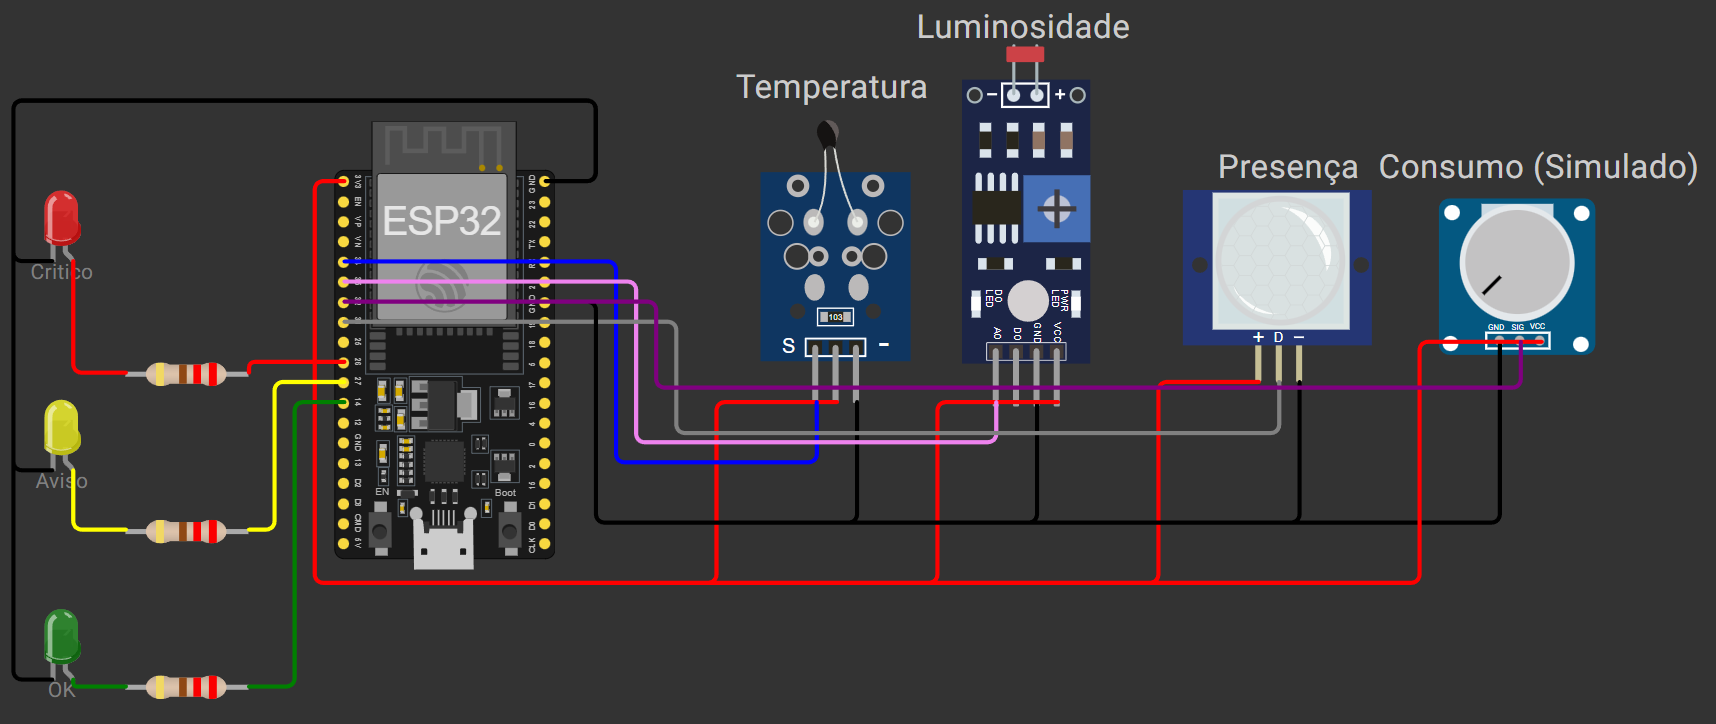
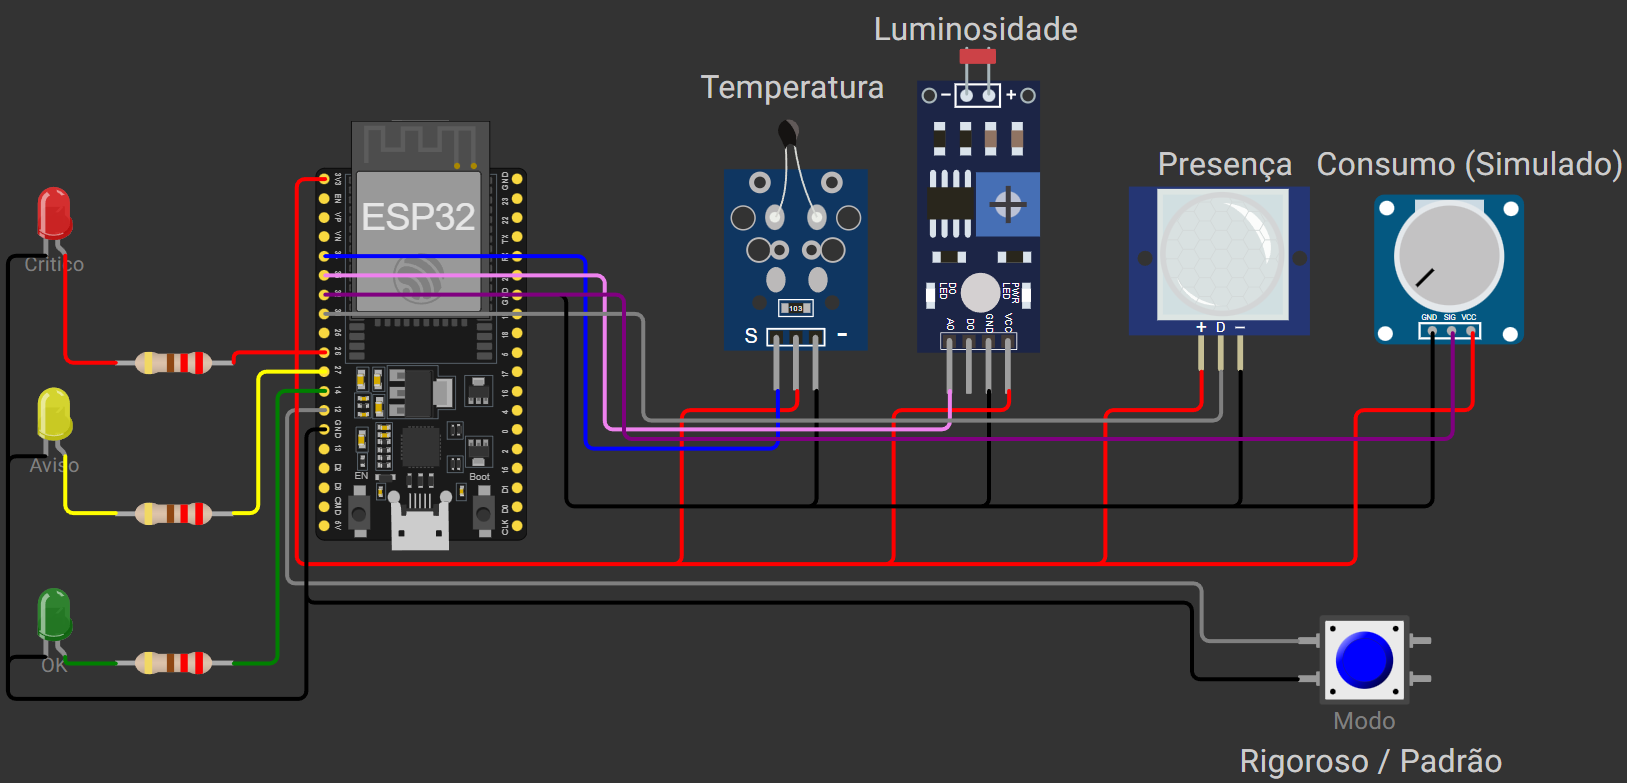
docs: atualiza README e diagrama com melhorias na descrição e layout

Changed region(s): [[0.0, 0.0, 1.0, 1.0], [0.0, 0.1215, 0.338, 0.1823]]

diff --git a/README.md b/README.md
@@ -12,31 +12,31 @@
 
 ![Circuito do SmartRoom Monitor](img/circuito.png)
 
-**Figura:** Simulação no Wokwi com Sensores NTC, LDR, PIR, Potenciômetro de Carga, LEDs de controle e **Botão de Modo (Rigoroso / Padrão)**.
+**Figura:** Simulação no Wokwi com Sensores NTC, LDR, PIR, Potenciômetro de Carga, LEDs de controle e Botão de Modo (Rigoroso / Padrão).
 
 ---
 
 ## 1. Visão Geral
 
-O **SmartRoom Monitor (v2 - Inovação)** é um sistema embarcado autônomo de alta performance para auditoria energética. Esta versão evoluiu de um código monolítico para uma arquitetura modular orientada a objetos, incorporando técnicas avançadas de sistemas de tempo real para garantir resiliência, eficiência energética e interface de usuário dinâmica.
+O **SmartRoom Monitor** é um sistema embarcado autônomo de alta performance projetado para auditoria energética em tempo real. O sistema utiliza uma arquitetura modular orientada a objetos e técnicas de sistemas de tempo real para garantir resiliência, eficiência energética e uma interface de usuário dinâmica, focando no combate ao desperdício em ambientes inteligentes.
 
 ---
 
 ## 2. Arquitetura da Solução (Modular e POO)
 
-O firmware foi totalmente refatorado sob o paradigma de **Orientação a Objetos (POO)**, dividindo as responsabilidades em módulos especializados:
+O firmware é estruturado sob o paradigma de **Orientação a Objetos (POO)**, dividindo as responsabilidades em módulos especializados para garantir escalabilidade e manutenibilidade:
 
-- **`sensors.py`**: Abstração de hardware. Contém a classe `AnalogSensor` (com filtragem e conversão) e `PresenceSensor` (baseado em interrupção).
-- **`actuators.py`**: Gerenciamento de feedback visual (`StatusLEDs`).
-- **`state_machine.py`**: O "cérebro" do sistema. Implementa uma **Máquina de Estados Finitos (FSM)** robusta com suporte a múltiplos modos de operação.
-- **`main.py`**: Orquestrador principal que gerencia o loop de eventos, Watchdog e economia de energia.
+- **`sensors.py`**: Abstração de hardware. Contém a classe `AnalogSensor` (filtragem e conversão) e `PresenceSensor` (detecção baseada em evento).
+- **`actuators.py`**: Gerenciamento de feedback visual através da classe `StatusLEDs`.
+- **`state_machine.py`**: Núcleo de decisão. Implementa uma **Máquina de Estados Finitos (FSM)** robusta com suporte a múltiplos perfis de auditoria.
+- **`main.py`**: Ponto de entrada que orquestra o loop de eventos, Watchdog e políticas de economia de energia.
 
 ### Fluxo de Dados e Controle
 
-1. **Percepção (IRQ/ADC):** Sensores coletam dados. O PIR gera interrupções para atualização instantânea.
-2. **Processamento (POO):** Classes especializadas suavizam ruídos e convertem grandezas físicas.
-3. **Decisão (FSM):** A máquina de estados avalia as condições baseada no **Modo de Operação** atual (Rigoroso / Padrão).
-4. **Atuação:** Feedback visual imediato e logs JSON estruturados.
+1. **Percepção (IRQ/ADC):** Coleta de dados analógicos suavizados e sinais digitais via interrupções para atualização instantânea.
+2. **Processamento:** Classes especializadas realizam a conversão para grandezas físicas (Celsius, Lux, %).
+3. **Decisão:** A FSM avalia as condições ambientais baseada no perfil de auditoria selecionado (Rigoroso ou Padrão).
+4. **Atuação:** Geração de alertas visuais e logs estruturados em formato JSON para auditoria externa.
 
 ---
 
@@ -48,45 +48,45 @@ O firmware foi totalmente refatorado sob o paradigma de **Orientação a Objetos
 | **Sensor NTC** | Analógico (GPIO 34) | Medição de temperatura |
 | **Sensor LDR** | Analógico (GPIO 35) | Medição de luminosidade |
 | **Sensor PIR** | **Digital IRQ (GPIO 33)** | Detecção de presença (Evento imediato) |
-| **Potenciômetro** | Analógico (GPIO 32) | Simulador de carga energética |
+| **Potenciômetro** | Analógico (GPIO 32) | Simulador de carga energética (0-100%) |
 | **LEDs** | 3x (Verde, Amarelo, Vermelho) | Feedback visual de estado |
-| **Botão (Novo)**| **Digital IRQ (GPIO 12)** | Troca de Modo (**Rigoroso / Padrão**) |
+| **Botão de Modo**| **Digital IRQ (GPIO 12)** | Alternância entre perfis de auditoria |
 
 ---
 
 ## 4. Inovações e Decisões Técnicas
 
-### 4.1 Interrupções de Hardware (IRQ) Seguras vs Polling
+### 4.1 Interrupções de Hardware (IRQ) Seguras
 
-Diferente da versão inicial, a detecção de movimento (PIR) e o botão de troca de modo operam via **Interrupções (IRQ)**. 
-- **Eficiência e Resiliência:** Utilizamos `micropython.schedule()` para tratar os eventos de interrupção de forma segura. Isso garante que o processamento (como a formatação de strings e logs) ocorra fora do contexto crítico da interrupção, prevenindo erros de alocação de memória e garantindo a estabilidade total no hardware real.
-- **Responsividade:** O timestamp de presença é atualizado instantaneamente no momento do trigger físico, garantindo precisão milimétrica na auditoria e permitindo o uso otimizado de modos de baixo consumo.
+A detecção de movimento e a interface de botão operam via **Interrupções de Hardware (IRQ)** para otimizar o uso da CPU:
+- **Resiliência:** O uso de `micropython.schedule()` garante que o processamento de eventos (como logs e cálculos) ocorra fora do contexto crítico da interrupção, prevenindo erros de alocação de memória no hardware real.
+- **Eficiência:** Permite que o processador entre em estados de baixo consumo sem perder eventos críticos de sensores.
 
 ### 4.2 FSM com Transições Temporizadas (Persistence Check)
 
-Para atingir 100% de confiabilidade, a lógica de decisão agora implementa uma técnica de **Persistence Check**:
-- Um estado só é alterado se a condição de gatilho persistir por **3 segundos**. 
-- Isso elimina o "chattering" (oscilações rápidas) causadas por sensores na borda do threshold ou ruídos momentâneos, tornando o sistema profissional e estável.
+Para garantir estabilidade operacional e evitar alarmes falsos:
+- A lógica de decisão exige que uma condição de trigger persista por **3 segundos** antes de consolidar a mudança de estado.
+- Este mecanismo elimina o "chattering" causado por ruídos analógicos ou sensores operando em limiares de transição.
 
-### 4.3 Modos de Operação Selecionáveis (Auditoria Rigorosa vs Padrão)
+### 4.3 Modos de Operação: Auditoria Rigorosa vs Padrão
 
-O sistema permite alternar o perfil de auditoria dinamicamente:
-- **Modo Auditoria Rigorosa:** Limiares mais rígidos para economia máxima (ex: aceita temperaturas mais altas antes de alertar sobre o AC ligado em sala vazia).
-- **Modo Padrão:** Prioriza o equilíbrio entre economia e conforto dos ocupantes com thresholds mais tolerantes.
-- A alternância ocorre via interrupção no **Push Button**, com feedback imediato via serial.
+O sistema disponibiliza perfis selecionáveis para diferentes necessidades de gestão:
+- **Modo Auditoria Rigorosa:** Aplica limiares mais estritos para maximizar a economia de recursos.
+- **Modo Padrão:** Equilibra a economia de energia com o conforto dos ocupantes.
+- A troca de perfil é realizada via interrupção no botão físico, fornecendo feedback imediato no terminal.
 
-### 4.4 Resiliência (Watchdog) e Energia (Light Sleep)
+### 4.4 Resiliência e Gestão de Energia
 
-- **Watchdog Timer (WDT):** Implementado um sentinela de hardware de 5 segundos. Se o firmware travar, o WDT reinicia o sistema automaticamente.
-- **Eficiência Energética:** O sistema utiliza `machine.lightsleep()` entre as amostragens de 100ms. O ESP32 entra em modo de baixo consumo quando ocioso, demonstrando excelência em design IoT.
+- **Watchdog Timer (WDT):** Um sentinela de hardware monitora o loop principal, reiniciando o sistema automaticamente em caso de falha de software.
+- **Eficiência Energética:** Implementação de `machine.lightsleep()` entre ciclos de amostragem, reduzindo o consumo energético simulado e real do dispositivo IoT.
 
 ---
 
 ## 5. Como Executar e Testar
 
-### Geração do Filesystem Modular (Local)
+### Geração do Filesystem Modular
 
-O `Dockerfile` foi atualizado para suportar múltiplos arquivos. Para gerar o `fs.bin` utilizando Docker:
+O processo de build via Docker integra todos os módulos Python no binário do sistema de arquivos (`fs.bin`):
 
 ```powershell
 docker build -t esp32-builder -f Dockerfile . ;
@@ -95,15 +95,31 @@ docker cp esp32-fs-builder:/fs.bin . ;
 docker rm esp32-fs-builder
 ```
 
-### Testando as Inovações na Simulação
+### Protocolo de Teste na Simulação
 
-1. Abra o arquivo `diagram.json` no Wokwi.
-2. **Troca de Modo:** Clique no botão azul "Modo". O console mostrará "[Sistema] Modo alterado para: PADRAO".
-3. **Persistência:** Force uma condição de alerta (ex: luz alta sem presença). Note que o LED só mudará de cor após **3 segundos** de persistência da condição.
-4. **Detecção PIR:** O PIR agora é reativo via interrupção, garantindo que nenhum movimento seja perdido entre ciclos de amostragem.
+1. **Validação de Modo:** Clique no botão azul "Modo" para observar a troca de perfil no console.
+2. **Teste de Persistência:** Force uma condição de alerta (ex: luz acesa sem presença). O LED deve mudar de cor somente após o tempo de confirmação de 3 segundos.
+3. **Detecção PIR:** Verifique se o registro de presença no log JSON responde instantaneamente ao acionamento do sensor.
 
 ---
 
-## 6. Resultados e Conclusão
+## 6. Resultados e Limitações
 
-O **SmartRoom Monitor v2** eleva o projeto do nível de protótipo acadêmico para um padrão de produto comercial. A adoção de **Orientação a Objetos**, **Interrupções de Hardware**, **WDT** e **FSM temporizada** garante que o dispositivo atue de forma confiável e eficiente na preservação de recursos energéticos, cumprindo com excelência todos os requisitos técnicos e de inovação propostos.
+### Resultados Alcançados
+
+- **Autonomia e Inteligência Local:** Lógica de decisão processada inteiramente na borda (Edge Computing).
+- **Arquitetura Industrial:** Separação em módulos POO que permite escalabilidade e adição de novos sensores com baixo impacto no código base.
+- **Confiabilidade Elevada:** Uso de WDT, IRQ seguras e filtragem por persistência elevam o projeto ao padrão de produto comercial.
+- **Auditabilidade:** Logs JSON estruturados facilitam a integração com sistemas de monitoramento externos.
+
+### Trade-offs e Limitações
+
+- **Ruído em Hardware Real:** Embora a média móvel e a persistência mitiguem ruídos, implementações físicas podem exigir janelas de amostragem maiores.
+- **Sincronização Temporal:** O timestamp (`ts`) é relativo ao tempo de boot. Implementações de produção requerem sincronização via NTP ou módulo RTC.
+- **Consumo de UI:** O feedback visual contínuo por LEDs, embora útil, representa um ponto de consumo que pode ser otimizado para dispositivos operando exclusivamente por bateria.
+
+---
+
+## 7. Conclusão
+
+O **SmartRoom Monitor** demonstra a viabilidade de implementar controle robusto e inteligente em hardware embarcado de baixo custo. Através do uso de técnicas avançadas como máquinas de estados temporizadas, interrupções seguras e modularização de código, o projeto atende com rigor aos requisitos técnicos e de inovação, operando como uma solução confiável para a preservação de recursos energéticos.
